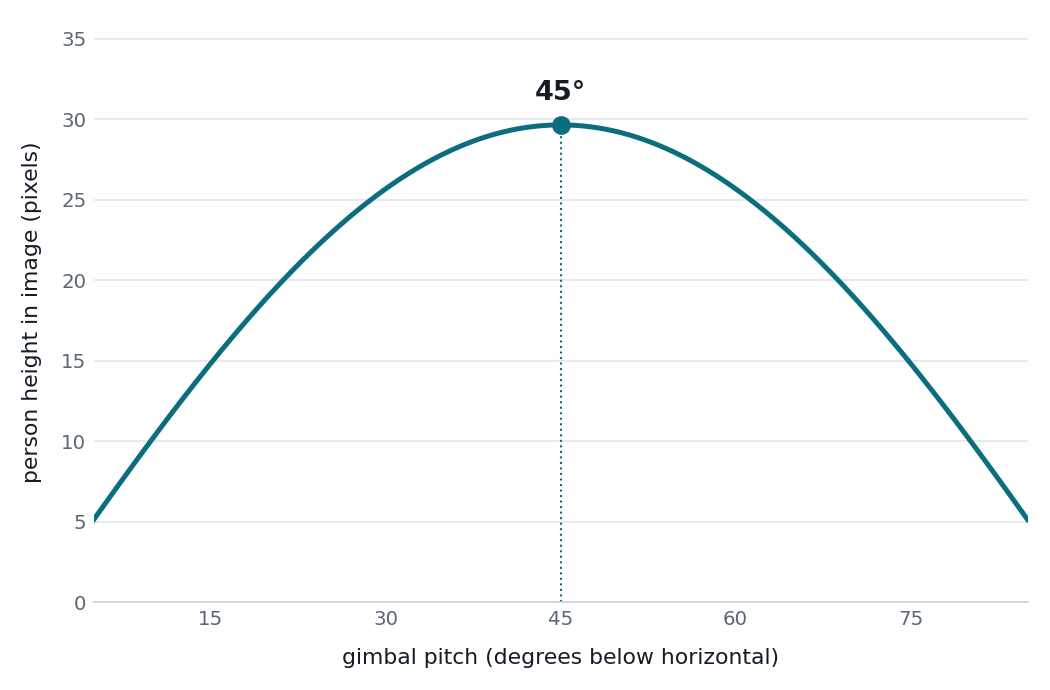
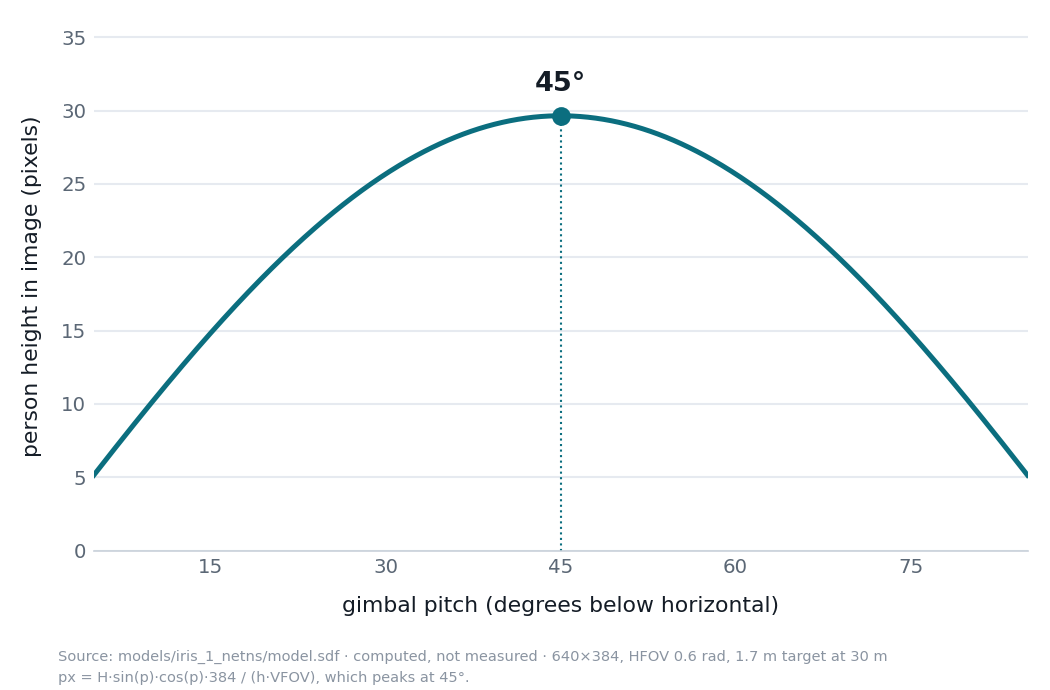
docs: name the source on both computed charts
Both now open with "Source: models/iris_1_netns/model.sdf · computed,
not measured", matching the back-end chart's format. The pitch chart had
no source line at all after being stripped down.

"computed, not measured" is stated explicitly because these two charts
are geometry, and the only measured detection figures in the project are
UAV1's 14.0 % and 14.1 % at 30 m.

diff --git a/scripts/make_pitch_chart.py b/scripts/make_pitch_chart.py
@@ -23,7 +23,7 @@ W_PX, H_PX, HFOV = 640, 384, 0.6
 PERSON_M, ALT_M = 1.7, 30.0
 VFOV = 2 * math.atan((H_PX / 2) / ((W_PX / 2) / math.tan(HFOV / 2)))
 
-ACCENT, INK, MUTED, GRID = "#0B6E7F", "#141C26", "#5B6775", "#E6EAF0"
+ACCENT, INK, MUTED, FAINT, GRID = "#0B6E7F", "#141C26", "#5B6775", "#8A94A1", "#E6EAF0"
 
 
 def person_px(pitch_deg, h=ALT_M):
@@ -61,7 +61,13 @@ def main():
         ax.spines[side].set_visible(False)
     ax.spines["bottom"].set_color("#C9D1DA")
 
-    fig.tight_layout()
+    fig.text(0.055, 0.012,
+             "Source: models/iris_1_netns/model.sdf · computed, not measured · "
+             "640×384, HFOV 0.6 rad, 1.7 m target at 30 m\n"
+             "px = H·sin(p)·cos(p)·384 / (h·VFOV), which peaks at 45°.",
+             fontsize=7, color=FAINT, linespacing=1.6)
+
+    fig.tight_layout(rect=[0, 0.075, 1, 1])
     OUT.parent.mkdir(exist_ok=True)
     fig.savefig(OUT, facecolor="white", edgecolor="none")
     print(f"  {OUT.relative_to(ROOT)}  {OUT.stat().st_size // 1024} KB")

diff --git a/scripts/make_altitude_chart.py b/scripts/make_altitude_chart.py
@@ -72,8 +72,9 @@ def main():
     ax.spines["bottom"].set_color("#C9D1DA")
 
     fig.text(0.055, 0.012,
-             "Computed geometry: 640×384, HFOV 0.6 rad, 45° pitch, 1.7 m target · "
-             "px = H·sin(p)·cos(p)·384 / (h·VFOV)\nDashed line marks the ~30 px "
+             "Source: models/iris_1_netns/model.sdf · computed, not measured · "
+             "640×384, HFOV 0.6 rad, 45° pitch, 1.7 m target\n"
+             "px = H·sin(p)·cos(p)·384 / (h·VFOV) · dashed line marks the ~30 px "
              "practical floor for YOLO-family detectors.",
              fontsize=7, color=FAINT, linespacing=1.6)
 
